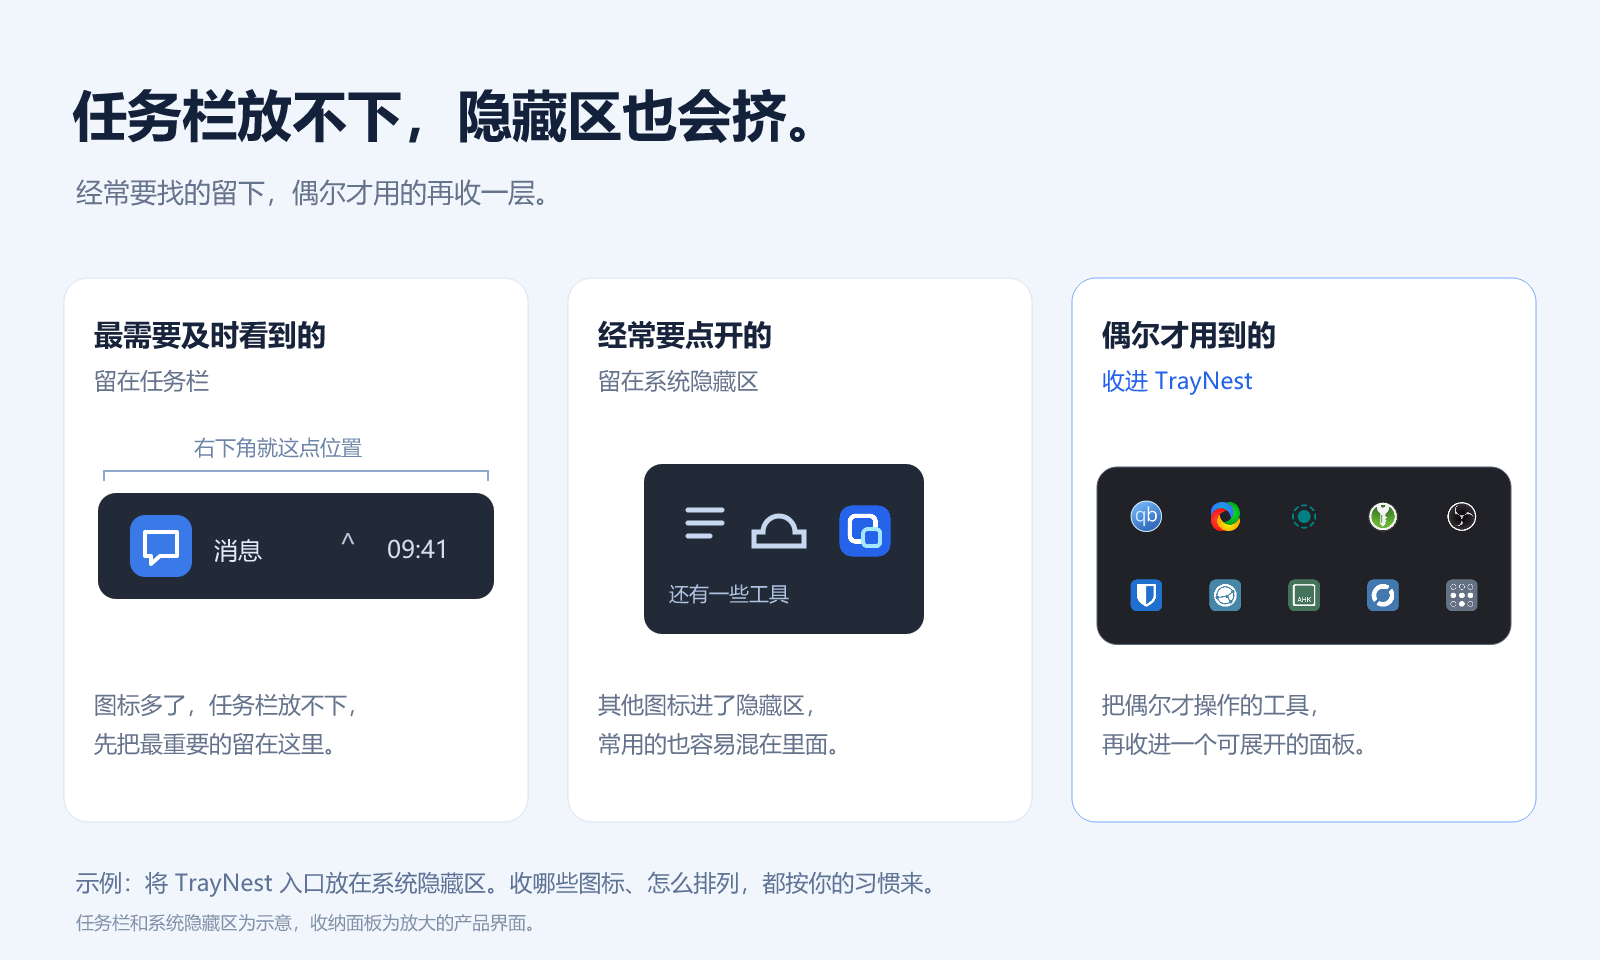
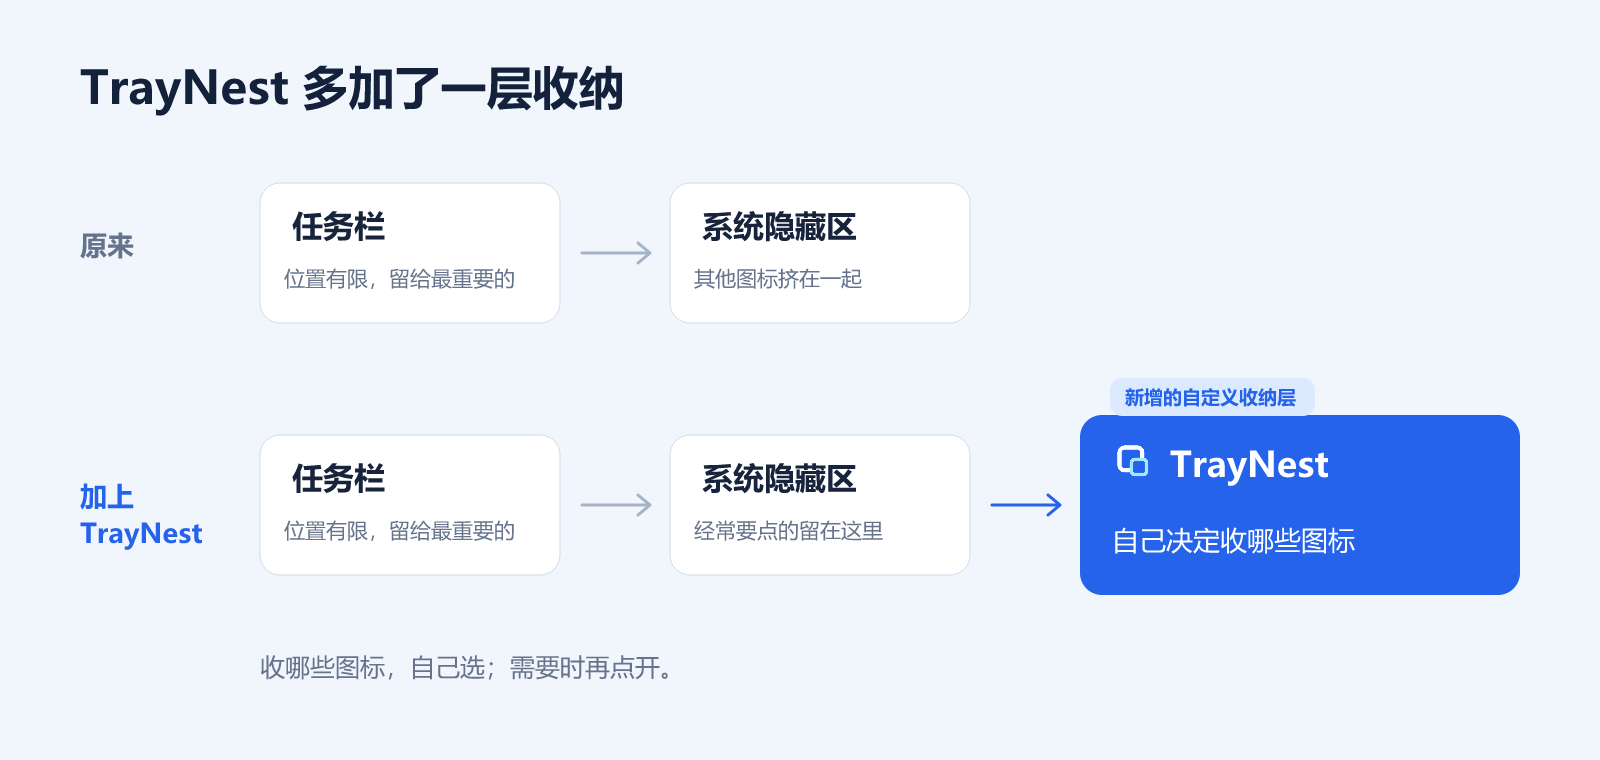
Simplify the extra tray layer into a before-and-after diagram
Replace the detailed use-case cards with the existing taskbar and Windows overflow, highlighting only the new customizable TrayNest collection. Shorten the README introduction to match the simple graphic.

diff --git a/README.md b/README.md
@@ -4,21 +4,17 @@
 
 **隐藏图标太多？不常用的，再收一层。**
 
-任务栏右下角就那么点位置，得先留给最重要的图标。需要及时看到的消息、经常留意的状态，已经占去了不少地方，其他图标就收进了系统的“隐藏的图标”面板。
-
-进了隐藏区，使用频率的差别还在：有的工具经常要点开，有的只在改设置、处理文件时才碰一次。全放在同一个面板里，常用和不常用的又挤在了一起。
-
-TrayNest 是一个 Windows 11 托盘图标收纳工具。它给系统隐藏区再加一个可以展开的收纳盒：经常要找的留在原处，偶尔才操作的拖进去，再收一层。任务栏留给最重要的，隐藏区里的常用图标也更容易找到。
+Windows 11 托盘图标收纳工具。任务栏位置有限，隐藏区也会挤；TrayNest 再加一个可以展开的收纳层，哪些图标收进去、怎么排列，由你自己安排。
 
 [下载预览版](https://github.com/Wuyuhang0729/traynest/releases)
 
 宣传图展示当前源码开发版，公开下载包的功能以 Release 说明为准。
 
-## 经常用的少翻找，偶尔用的不占地方
+## 再加一层收纳
 
-任务栏的位置有限，可以优先留给需要及时看到的消息和状态；经常操作的工具留在系统隐藏区，偶尔才点的收进 TrayNest。哪些放在哪，按你自己的用法安排。
+最重要的留在任务栏，常用的放在系统隐藏区；偶尔才用的，还可以再收进 TrayNest。
 
-![托盘收纳示例：及时关注的留在任务栏，经常点的留在系统隐藏区，偶尔用的收进 TrayNest](assets/readme/hierarchy.png)
+![使用前后对比：保留任务栏和系统隐藏区，TrayNest 新增一个可以自己决定收哪些图标的收纳层](assets/readme/hierarchy.png)
 
 ## 功能
 

diff --git a/promo/readme/CREDITS.md b/promo/readme/CREDITS.md
@@ -1,8 +1,8 @@
 # README 宣传图与分层工程
 
-制作日期：2026-11-02；文案与使用场景示意更新于2026-11-03。四张成图位于 `assets/readme/`：hero（1600×900）、hierarchy（1600×960）、features（1600×1030）、placement（1600×980）。README使用相对路径引用PNG，GitHub无需运行脚本即可显示。图片展示本地开发版，公开下载包以Release说明为准。
+制作日期：2026-11-02；文案与使用场景示意更新于2026-11-03。四张成图位于 `assets/readme/`：hero（1600×900）、hierarchy（1600×760）、features（1600×1030）、placement（1600×980）。README使用相对路径引用PNG，GitHub无需运行脚本即可显示。图片展示本地开发版，公开下载包以Release说明为准。
 
-宣传先说明任务栏右下角空间有限、需要优先留给最重要的图标，再说明隐藏区里常用与不常用图标混在一起，最后介绍TrayNest的额外收纳空间。用户提供的任务栏截图只用于理解这个背景，未纳入任何公开图片；图中的任务栏和系统隐藏区均单独绘制为示意。
+README以一句话说明任务栏空间有限及隐藏区也会拥挤，再用简洁的使用前后示意高亮TrayNest新增的自定义收纳层。用户提供的任务栏截图只用于理解背景，未纳入任何公开图片。hierarchy为独立绘制的概念示意，不是系统截图。
 
 ## 分层与重建
 

diff --git a/promo/readme/MESSAGING.md b/promo/readme/MESSAGING.md
@@ -4,6 +4,6 @@
 
 先交代空间限制：任务栏右下角的位置有限，需要优先留给最重要、最需要及时关注的图标。其余图标进了隐藏区，经常要点的和偶尔才操作的又挤在同一个面板里。再说明TrayNest让用户把不常用的再收进一个可展开面板，给经常用的留下更容易找到的位置。
 
-正文按“任务栏放不下 → 隐藏区也会挤 → 不常用的再收一层”展开，再说明拖拽、排序和固定格位如何实现。用“找图标”“不常用”“需要时展开”等具体使用感受，说明用户可以自己安排。
+正文只简要说明背景，把“原来两处位置，新增一层自选收纳”放进使用前后对比图。任务栏、系统隐藏区使用中性色，TrayNest新增部分用蓝色高亮，并标注“自己决定收哪些图标”。其他功能仍由原有功能图说明，不继续堆叠宣传段落。
 
 示例：想及时关注的消息留在任务栏，经常点的工具留在系统隐藏区，偶尔操作的收进TrayNest。软件名称只能作为例子，各人的安排取决于自己的习惯。这是收纳位置的选择；宣传图不应画出自动分类功能，也不把这个使用示例称为Windows官方分类。
